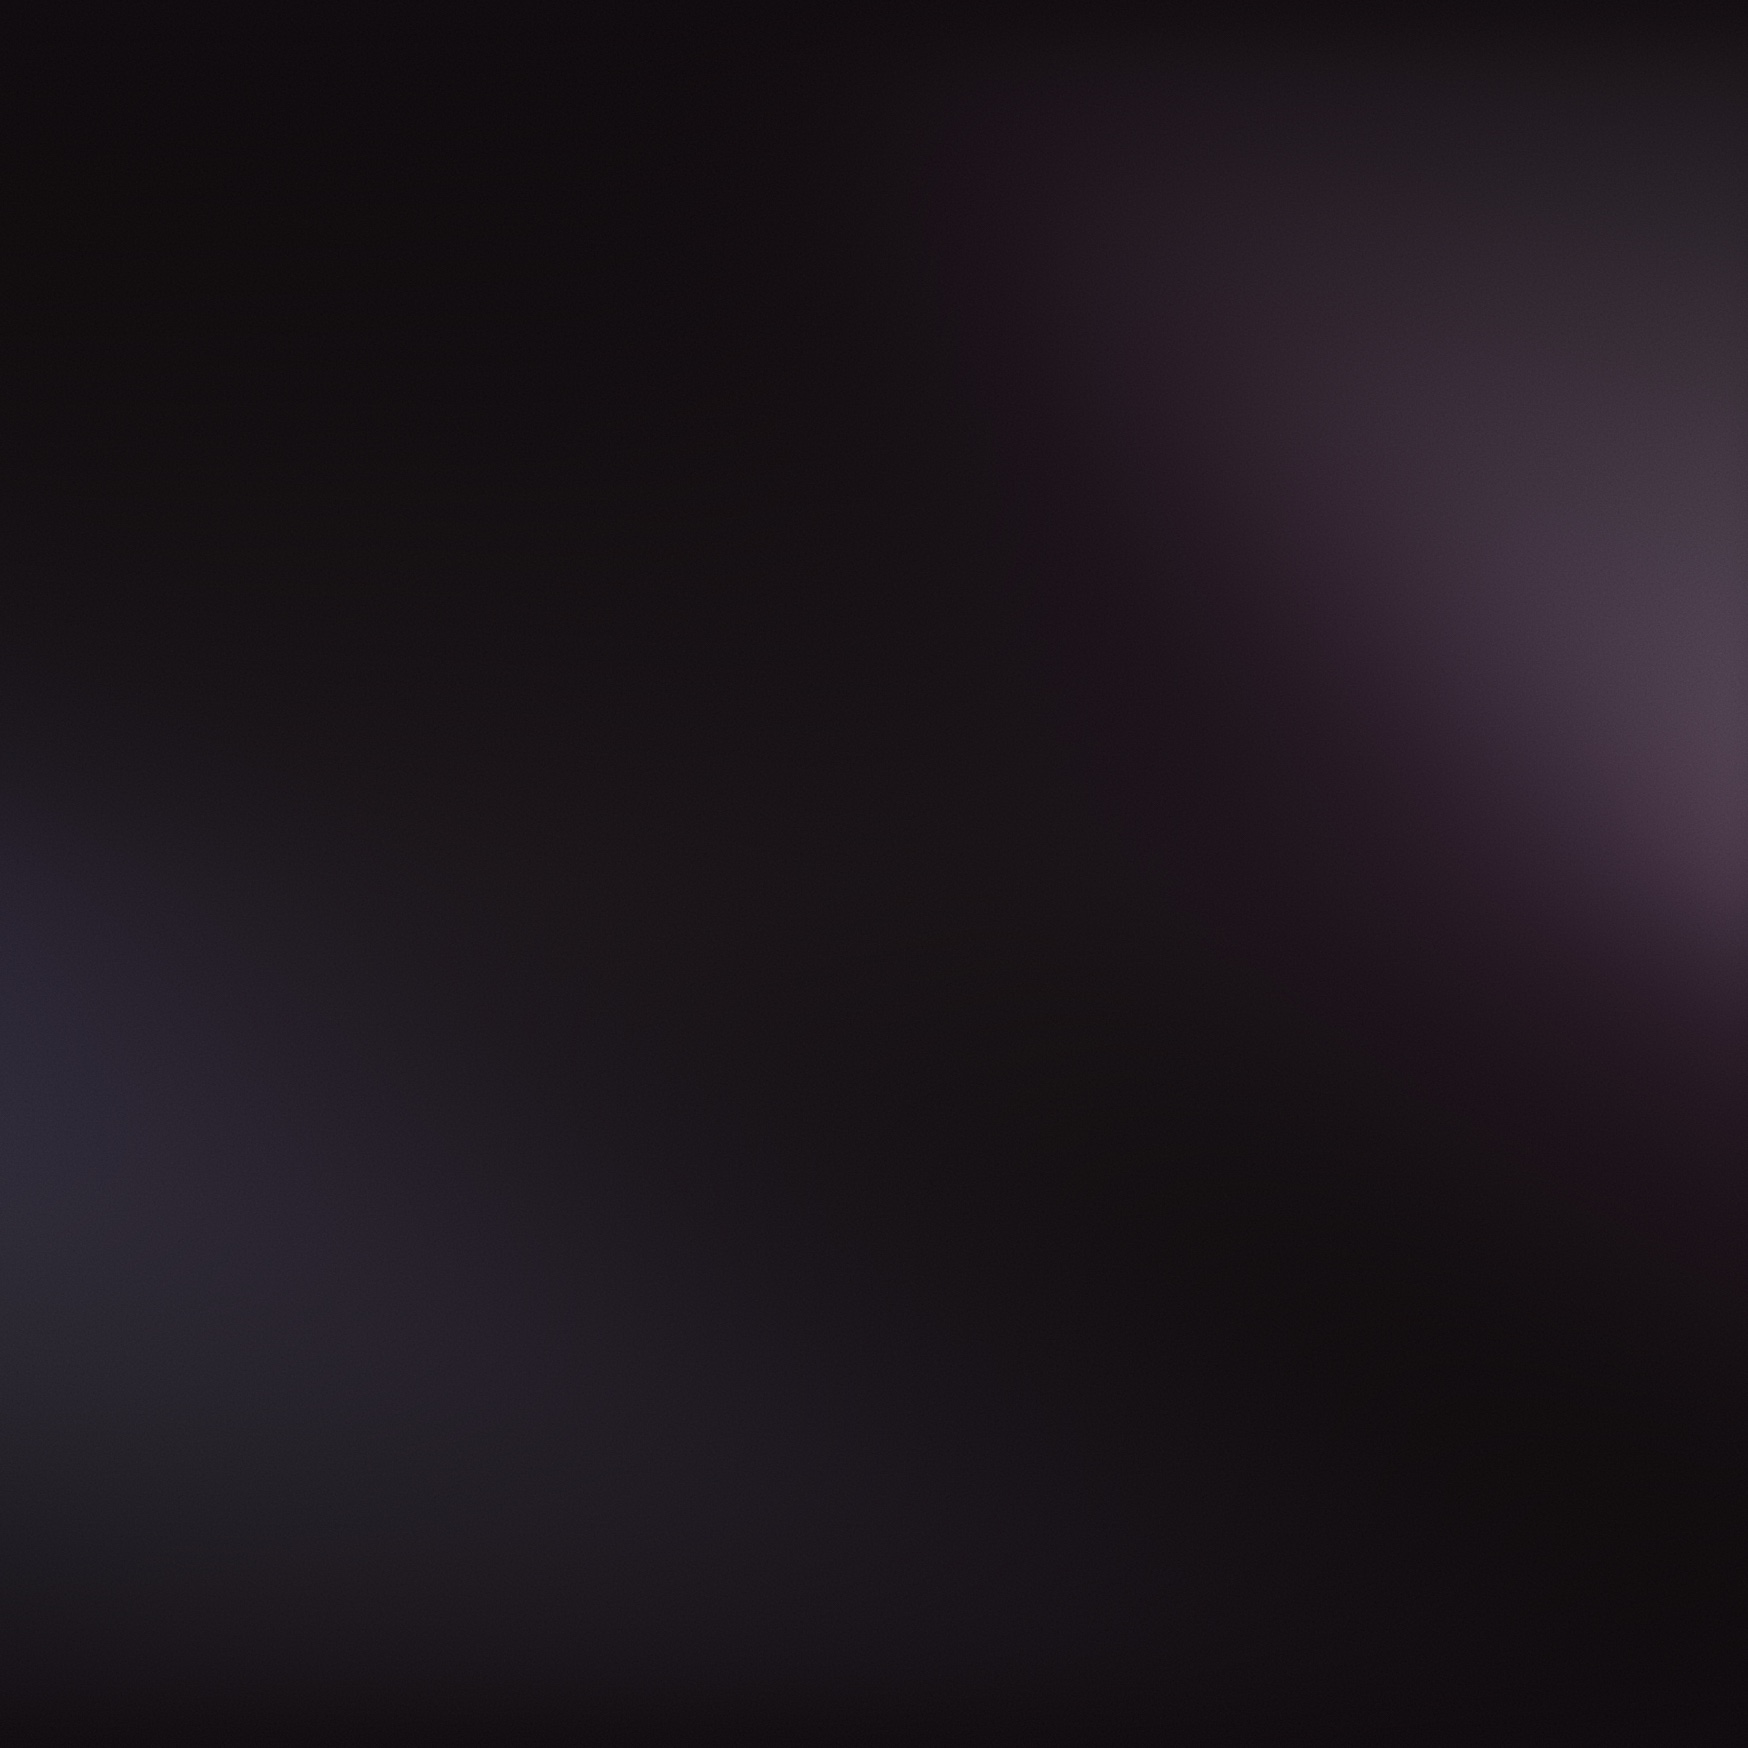
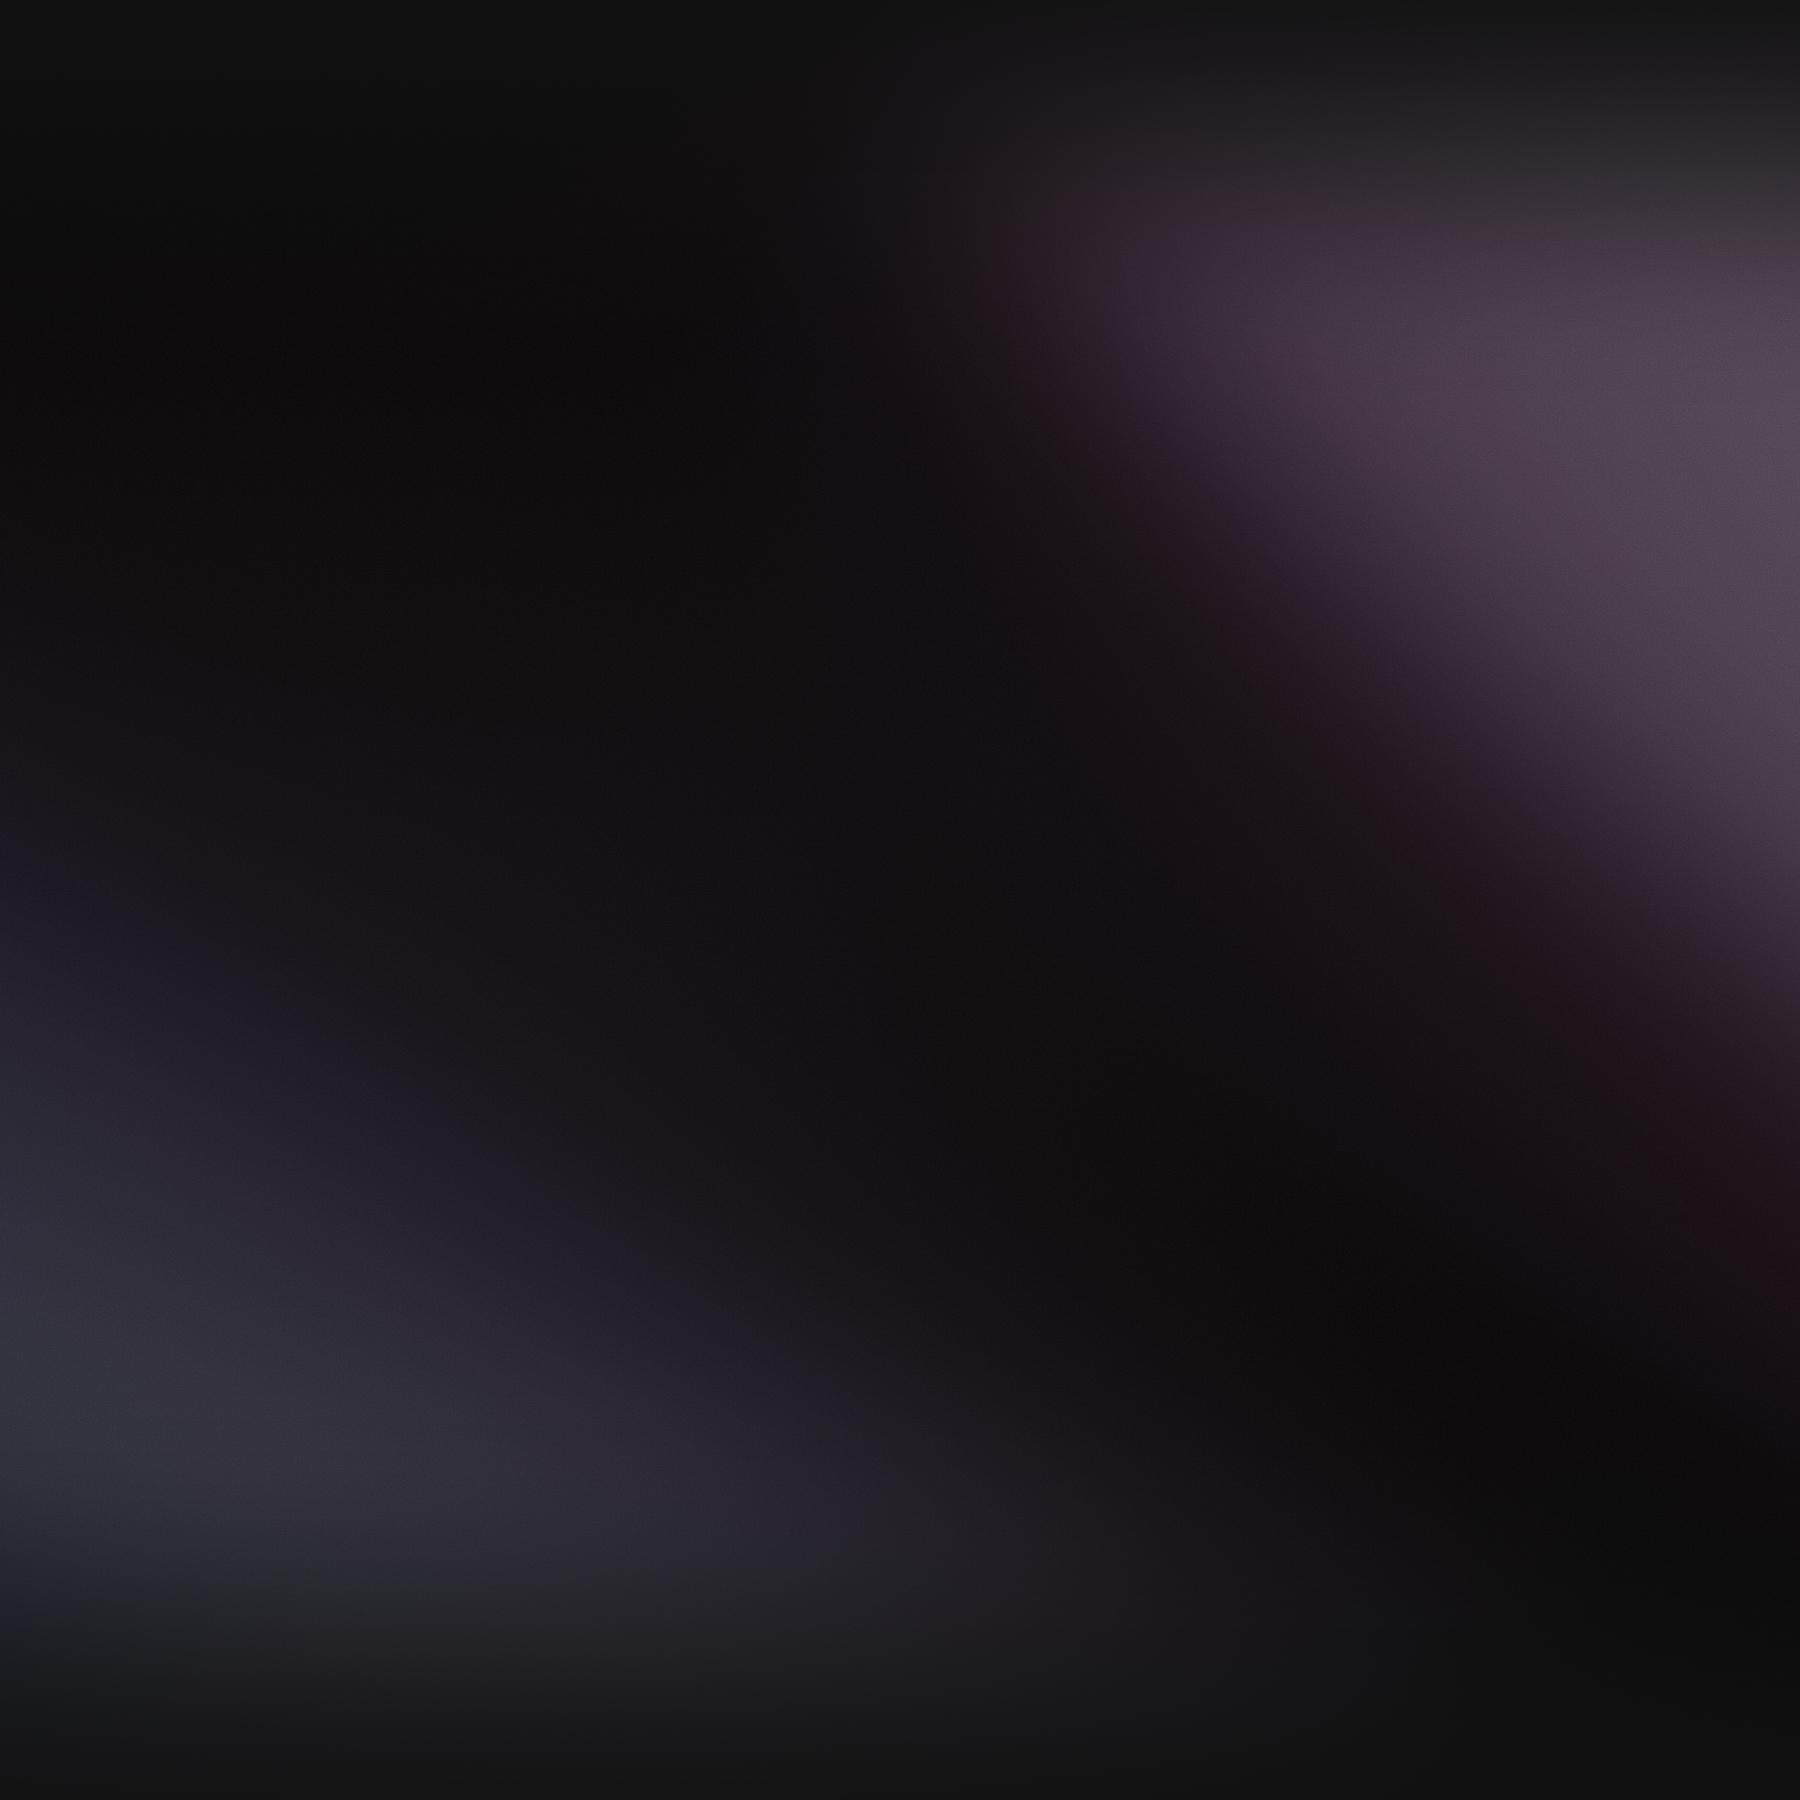
Update: 2026-03-14 22:10:53

Changed region(s): [[0.6796, 0.1236, 1.0, 0.2471]]

diff --git a/index.html b/index.html
@@ -8,7 +8,7 @@
     <title>Neat Open Proto Mobile</title>
     <style>
         html {
-            background-color: #150E13;
+            background-color: #111111;
         }
 
         body {
